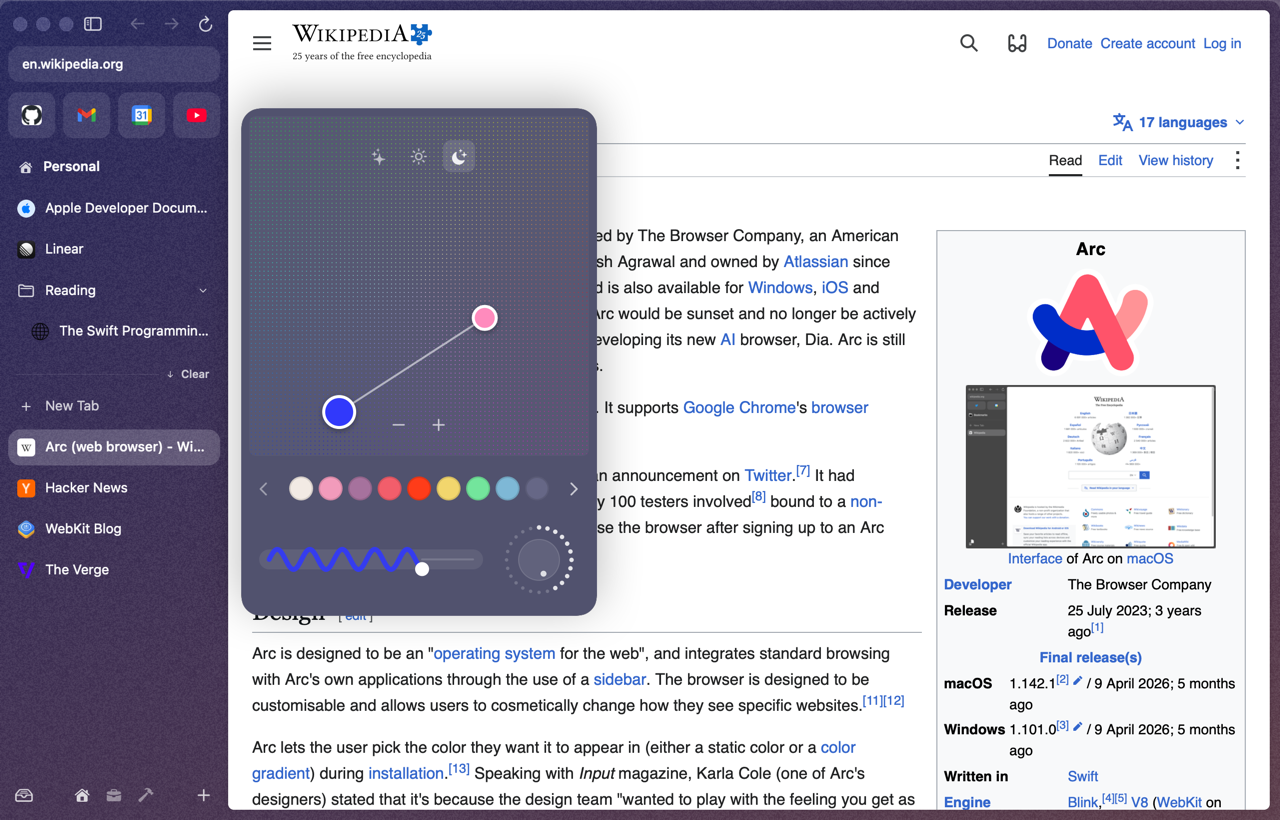
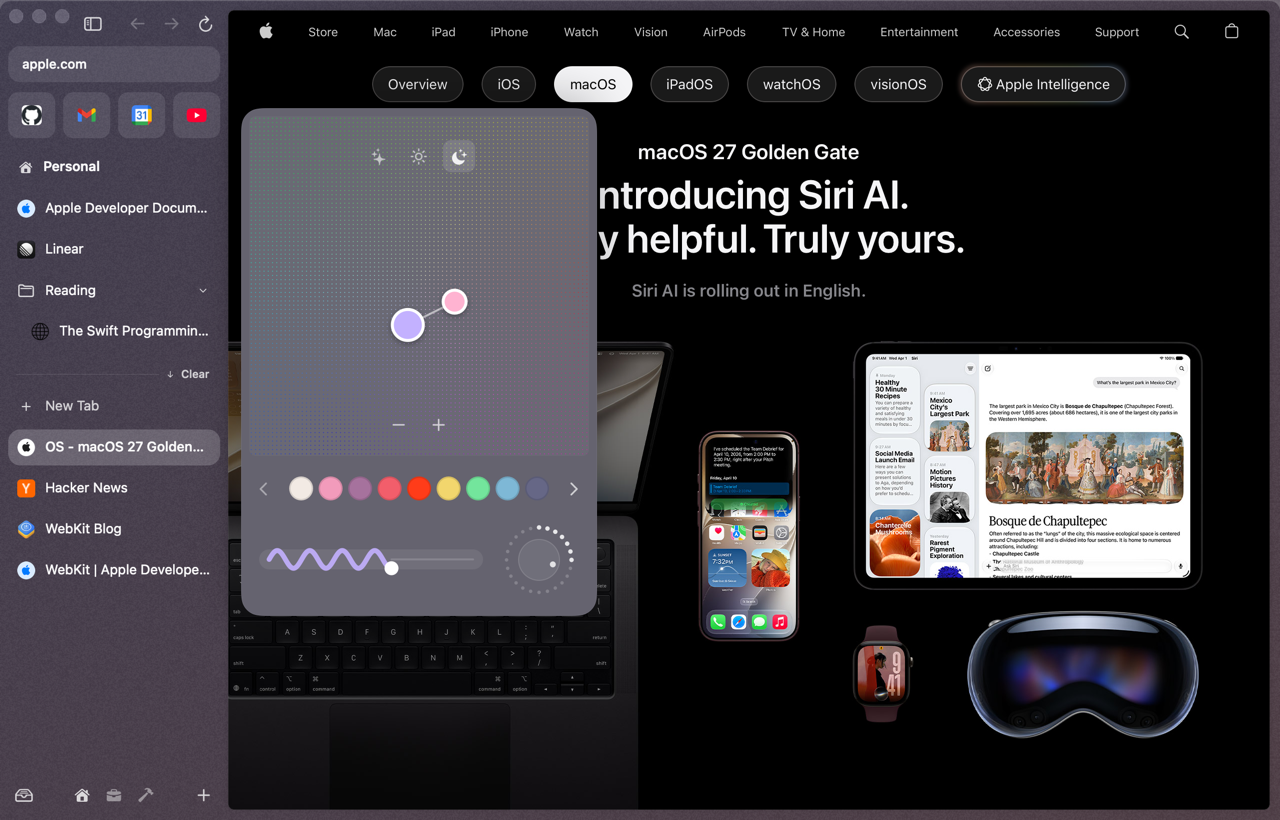
Refresh the quit dialog and live theme picker screenshots
They still showed the old Arc article sample tab. New --scenario themeLive
opens the theme plugin's picker over the demo window; snapshots.sh uses it.

diff --git a/Sources/Den/main.swift b/Sources/Den/main.swift
@@ -9,7 +9,7 @@ import os
 //   --appearance light|dark|auto   set every space's appearance through the spaces plugin
 //   --scenario <name>              state before snapshot: main, hidden, reveal, space2, toast, swipe, swipeCommit,
 //                                  load10, load10discard, split, split3, command, commandEdit, commandActions, dialog, peek,
-//                                  littleArcLink, littleArcCmdO (prints scenario.cmdO … ok=true|false, exits), rename
+//                                  littleArcLink, littleArcCmdO (prints scenario.cmdO … ok=true|false, exits), rename, themeLive
 //                                  (split*, command*, dialog, peek and littleArcLink need those plugins)
 //   --dev-plugins <dir>            also load <dir>/*.dylib and hot-reload them when rebuilt
 //   --snapshot <path.png>          render the window to PNG after load, then quit
@@ -210,6 +210,10 @@ final class AppDelegate: NSObject, NSApplicationDelegate {
           }
         }
       }
+    case "themeLive":
+      // The theme plugin's picker over the demo window (the space's "Edit Theme…").
+      let id = rt.call("spaces", "current")["id"]
+      DispatchQueue.main.asyncAfter(deadline: .now() + 1) { rt.plugins.emit("spaces.editTheme", ["id": id]) }
     case "rename":
       // Double-click the first today tab: the inline title editor.
       if let id = rt.call("tabs", "list").list("today").first?["id"] { rt.plugins.emit("ui.action", ["id": id, "action": "doubleClick"]) }
